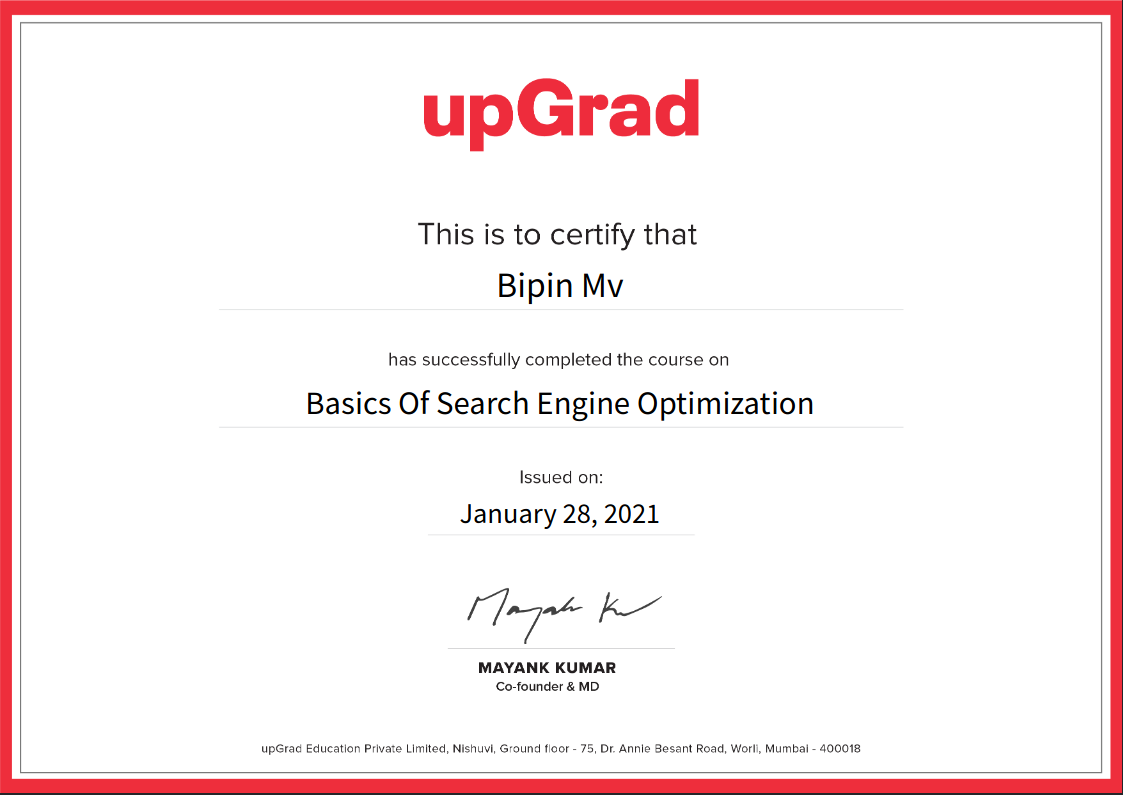
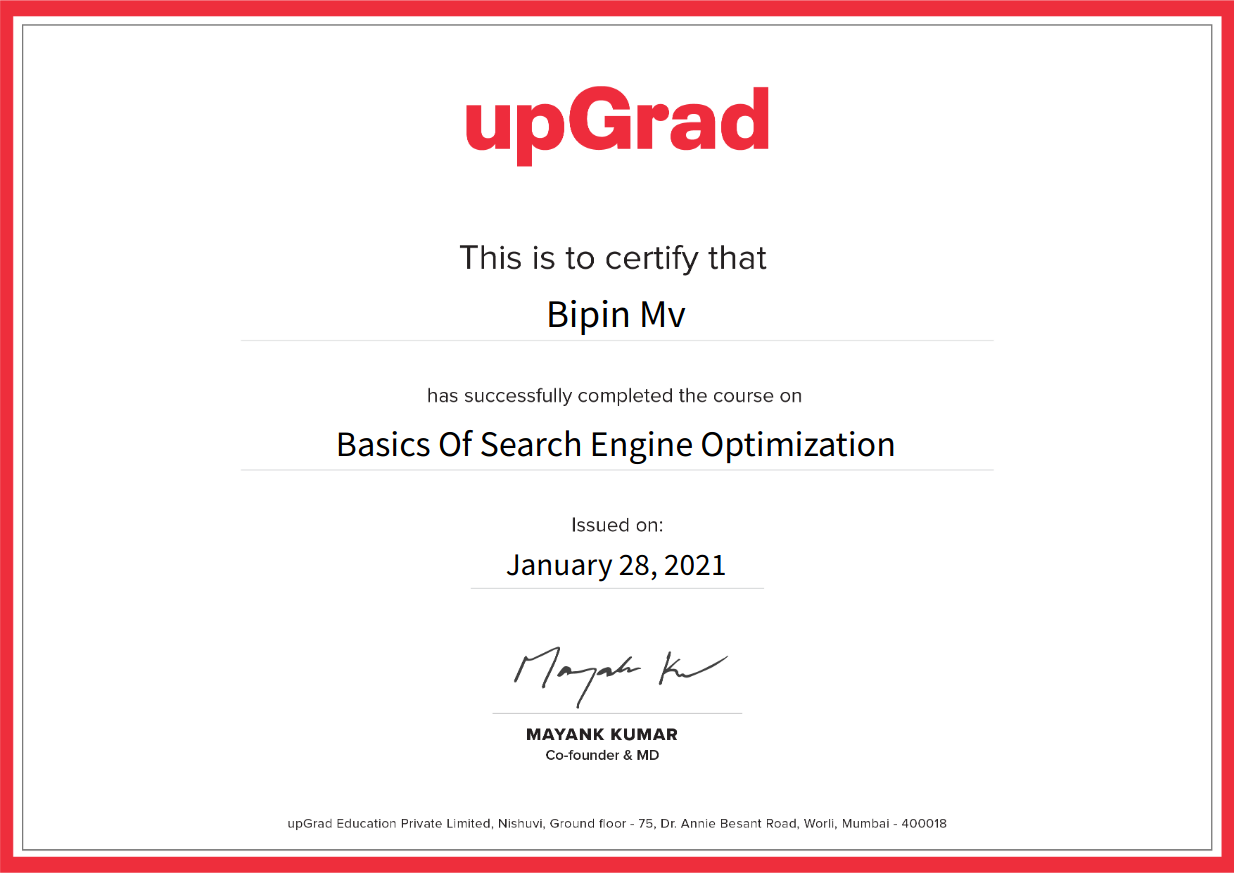
added new certificate

diff --git a/src/utils/helperList.js b/src/utils/helperList.js
@@ -142,6 +142,9 @@ export const contactDetails = [{
 }];
 
 export const certficatesList = [{
+  src: "/static/certificates/upgrad-js.png",
+  href: "https://www.credential.net/7f1cd7a8-f73e-41a1-afe9-e53c9337c403#gs.bmmcl7"
+}, {
   src: "/static/certificates/cutshort-js.jpg",
   href: "https://cutshort.io/certificate/49336"
 }, {
